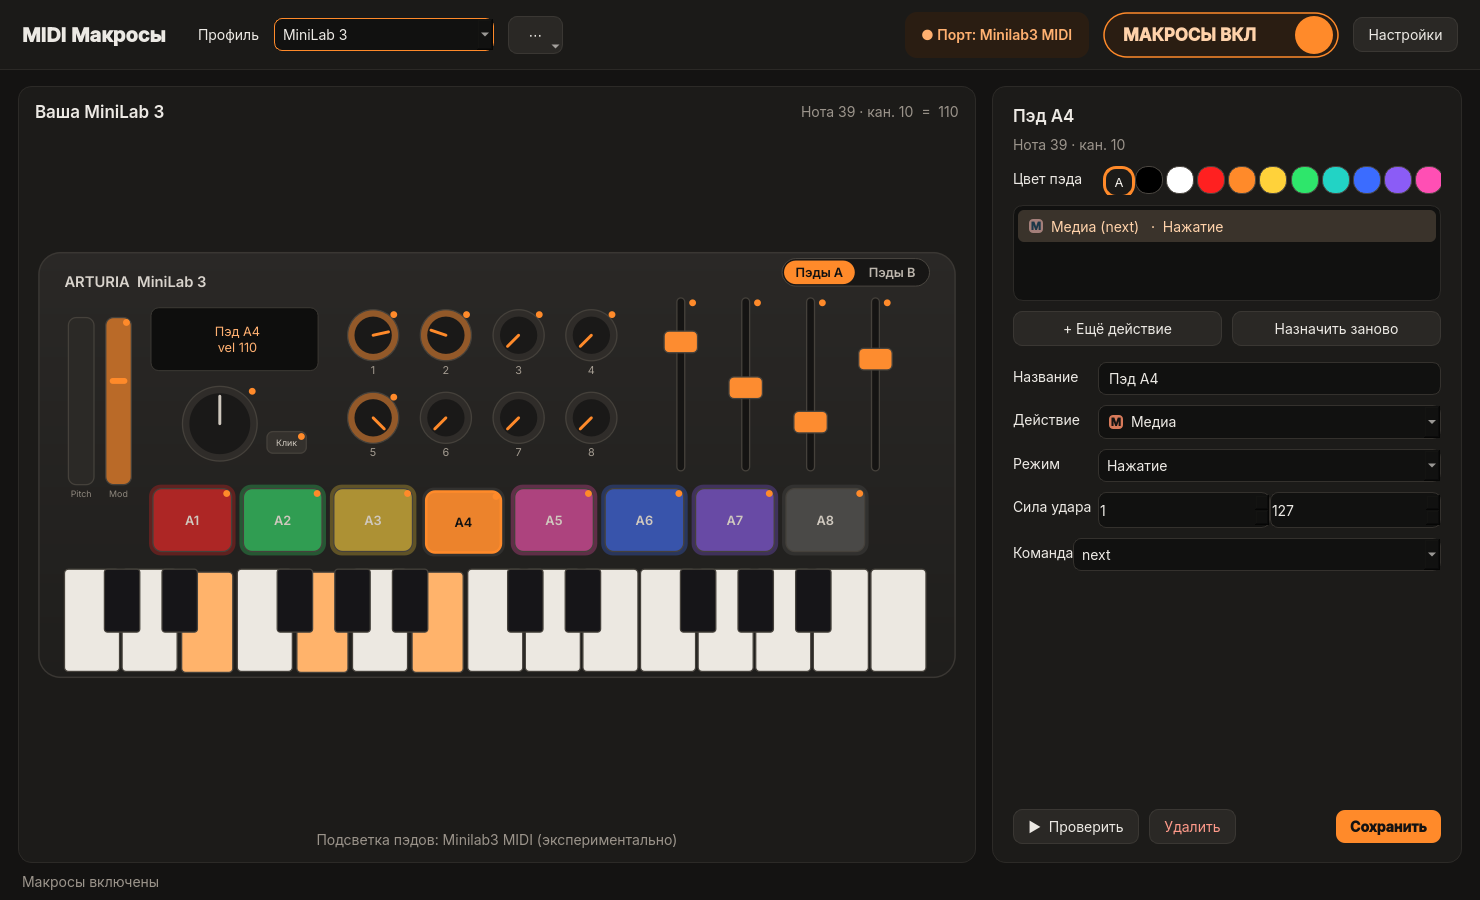
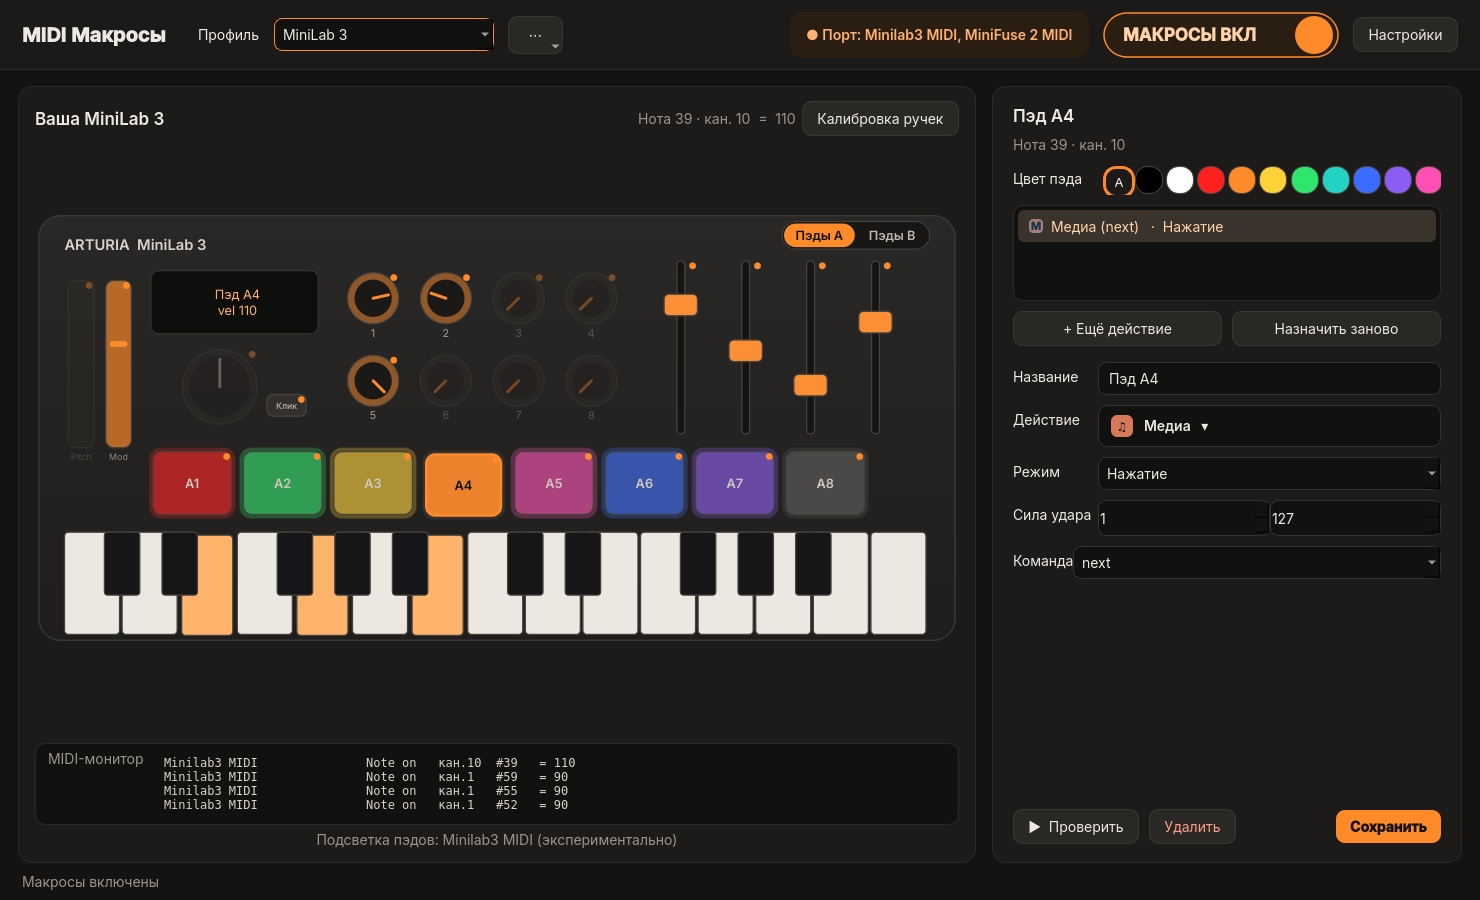
v4 README + screenshots

diff --git a/README.md b/README.md
@@ -24,6 +24,21 @@
 ## Автозапуск
 Галочка **«Запускать вместе с Windows»** в «Настройках» (по умолчанию включена). Она прописывает программу в реестр `HKCU\Software\Microsoft\Windows\CurrentVersion\Run`, права администратора не нужны. При автозапуске программа стартует сразу в трей. Если exe перенёс в другую папку, запусти его один раз оттуда, и путь обновится.
 
+## Ручки не реагируют? Калибровка ручек (v4)
+- Программа теперь слушает **все** входы MiniLab 3 (например «Minilab3 MIDI» и «MIDIIN2 (Minilab3 MIDI)») и ловит ручки/фейдеры на **любом** MIDI-канале.
+- Внизу схемы — **MIDI-монитор**: последние сообщения (порт, тип, канал, номер, значение). Крутите ручку — сразу видно, что она шлёт.
+- Кнопка **«Калибровка ручек»**: на схеме по очереди подсвечивается контрол → покрутите его → «Сохранить». Программа запомнит реальные CC и перенесёт на них все назначения.
+- Контролы, которые ещё ни разу не шевелили, на схеме полупрозрачные.
+
+## Выбор действия
+«Действие» → открывается окно с плитками: Запуск, Клавиатура, Медиа, Звук, Окна, Сцены, Голос, Прочее. Внутри — короткий список с описанием. Сверху поиск.
+
+## Питч голоса (полоса Pitch)
+1. Установите бесплатный VB-Cable: https://vb-audio.com/Cable/ (VBCABLE_Setup_x64.exe от администратора → Install → перезагрузка).
+2. Настройки → «Питч голоса на полосе Pitch».
+3. В Discord/OBS/Telegram выберите микрофоном **«CABLE Output»**. Полоса вверх — голос выше, вниз — ниже (до ±12 полутонов), центр — обычный.
+Если VB-Cable не найден, программа сама предложит открыть сайт.
+
 ## Как назначить действие
 1. Кликни контрол на схеме или просто тронь его на клавиатуре: он выделится сам. Пэды банка B: переключатель «Пэды A / Пэды B» на схеме.
 2. Справа нажми «+ Ещё действие». На один контрол можно повесить несколько действий, например короткое и долгое нажатие. Кнопка «Назначить заново» перепривязывает действие к другому контролу или ноте (MIDI learn: нота, CC, pitch bend, program change, с учётом канала).
